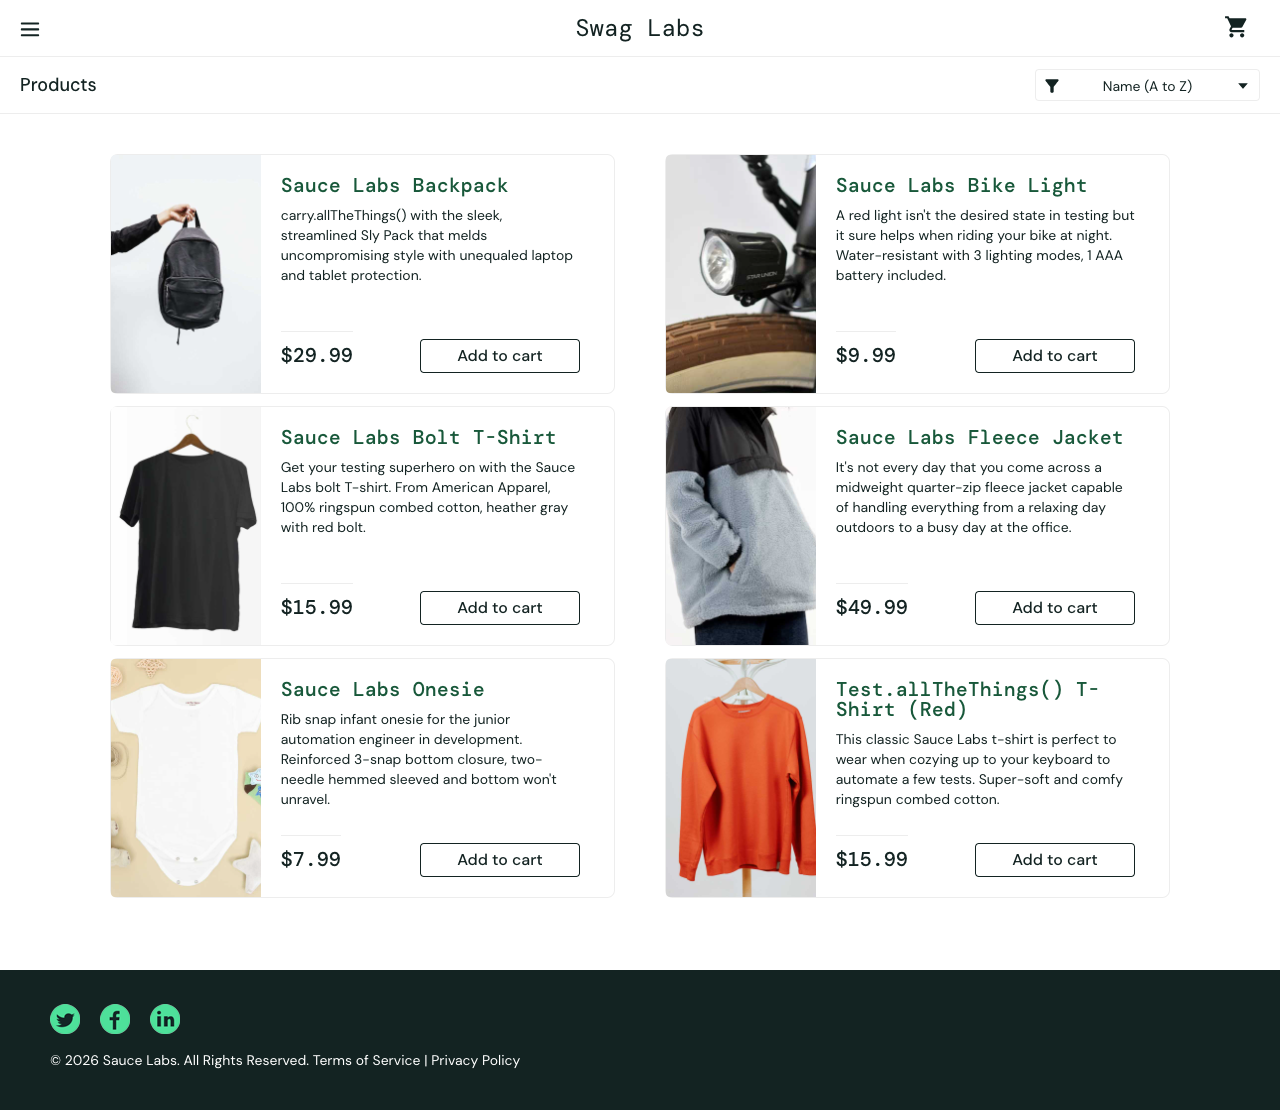
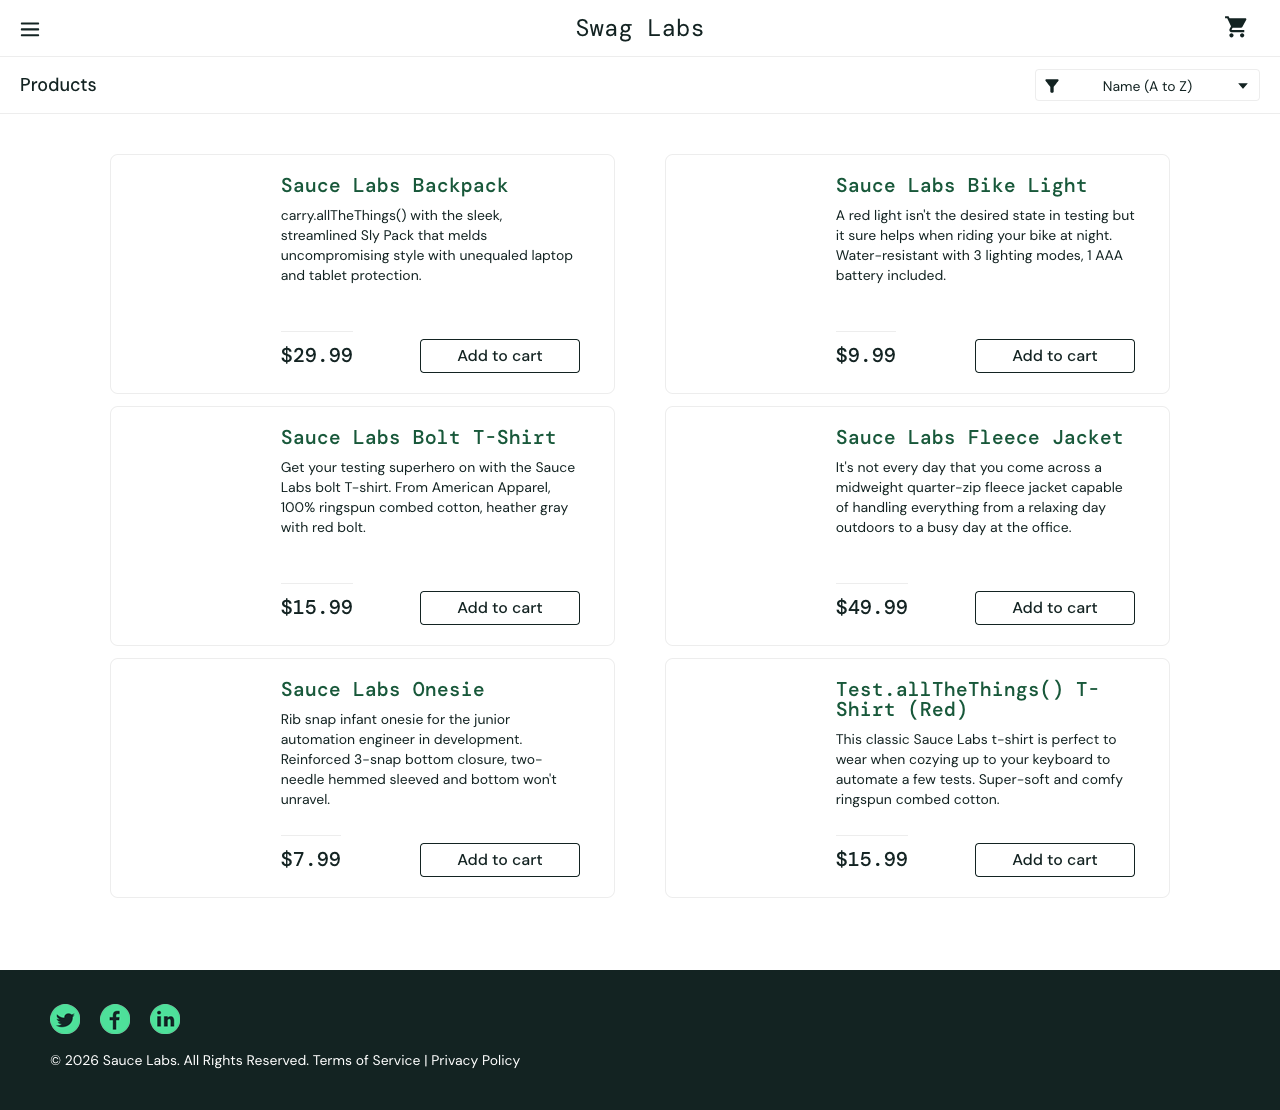
refactor loginpom and loginspec

diff --git a/tests/pages/LoginPOM.ts b/tests/pages/LoginPOM.ts
@@ -2,8 +2,6 @@ import { expect, type Page } from "@playwright/test";
 
 export async function goto(page: Page) {
     await page.goto('https://www.saucedemo.com/')
-    await expect(page).toHaveTitle('Swag Labs')
-    return page.url()
 }
 
 export async function login(page: Page, user: string, pass: string) {

diff --git a/tests/login.spec.ts b/tests/login.spec.ts
@@ -5,6 +5,7 @@ const baseURL = 'https://www.saucedemo.com/'
 
 test('has title', async ({ page }) => {
     await auth.goto(page)
+    await expect(page).toHaveTitle('Swag Labs')
 })
 
 test('login success', async ({ page }) => {